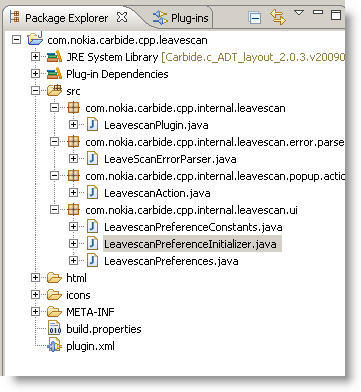
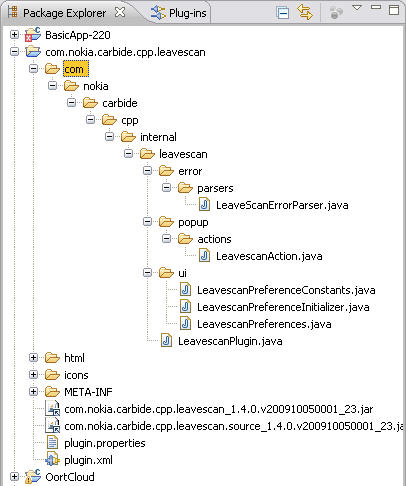
BUG 9887 - revised CDK docs with improved import binary project with linked content steps with additional images
--HG--
branch : RCL_2_2

Changed region(s): [[0.0, 0.0, 1.0, 1.0], [0.5789, 0.1531, 0.6094, 0.1837]]

diff --git a/carbidesdk/com.nokia.carbide.cpp.sdk.doc.user/html/gettingStarted/env_setup.htm b/carbidesdk/com.nokia.carbide.cpp.sdk.doc.user/html/gettingStarted/env_setup.htm
@@ -25,14 +25,26 @@ to develop a plugin against the Carbide.c++ development environment.</p>
 <ol>
   <li>Switch to the <strong>Plug-in Development</strong> perspective. </li>
   <li>Select the <strong>Plug-ins</strong> view. </li>
-  <li>Select the binary plug-in you want view the source of. Don't select the *source feature.</li>
-  <li>Right-click on the plug-in you want to import and select <strong>Import As &gt; Binary Project with Linked Content</strong>. For example, the <span class="style1">com.nokia.carbide.cpp.leavescan</span> plug-in as shown below. This  enables you to view the sources for the plug-in but not modify them.<br>
+  <li>Right-click on the plug-in you want to import and select <strong>Import As &gt; Binary Project with Linked Content</strong>. For example, the <span class="style1">com.nokia.carbide.cpp.leavescan</span> plug-in as shown below.<br>
     <br>
-  <img src="../img/import_source_project.jpg" width="706" height="459">  </li>
+    <img src="../img/import_source_project.jpg" width="650" height="428">  </li>
+  <li>Now you can return to the <b>Package Explorer</b> and locate the <span class="code">.source</span> reference in the project. In this example that would be the <span class="style1">com.nokia.carbide.cpp.leavescan.source</span> file.</li>
+  <li>Right-click the<span class="code"> .source</span> file (<span class="style1">com.nokia.carbide.cpp.leavescan.source</span>) and select <b>Import</b>.<br>
+      <br>
+      <img src="../img/import_project_sources.png" width="406" height="198"><br>
+  </li>
+  <li>In the <b>Select</b> page, select <b>General &gt; Archive File</b>, then click <b>Next</b>.<br>
+      <br>
+      <img src="../img/import_general_archive_file.png" width="470" height="244"><br>
+  </li>
+  <li>Navigate to the <span class="style1">com.nokia.carbide.cpp.leavescan.source</span> plug-in file, then click <b>Open</b>. Note that the source plug-ins are located in the same directory where you imported the Carbide Development Kit. By default, this is the <span class="code">/plugins</span> directory of the Carbide installation.</li>
+  <li>In the <b>Archive file</b> page, select click <b>Finish</b>.<br>
+      <br>
+    <img src="../img/import_archive_file_project.png" width="543" height="550"></li>
   <li>Now you can return to the <strong>Package Explorer</strong> view and navigate the source files for the imported plug-in. It should look like a normal plug-in project:<br>
     <br>
-  <img src="../img/source_plugin.jpg" width="361" height="392"><br>
-  <br>
+    <img src="../img/source_plugin.jpg" width="406" height="486"><br>
+    <br>
   You can now <a href="launchconfig.htm">create a launch configuration</a> and debug Carbide. </li>
 </ol>
 <div id="footer">Copyright &copy; 2009 Nokia Corporation and/or its subsidiary(-ies). All rights reserved. <br>License: <a href="http://www.eclipse.org/legal/epl-v10.html">http://www.eclipse.org/legal/epl-v10.html</a></div>
